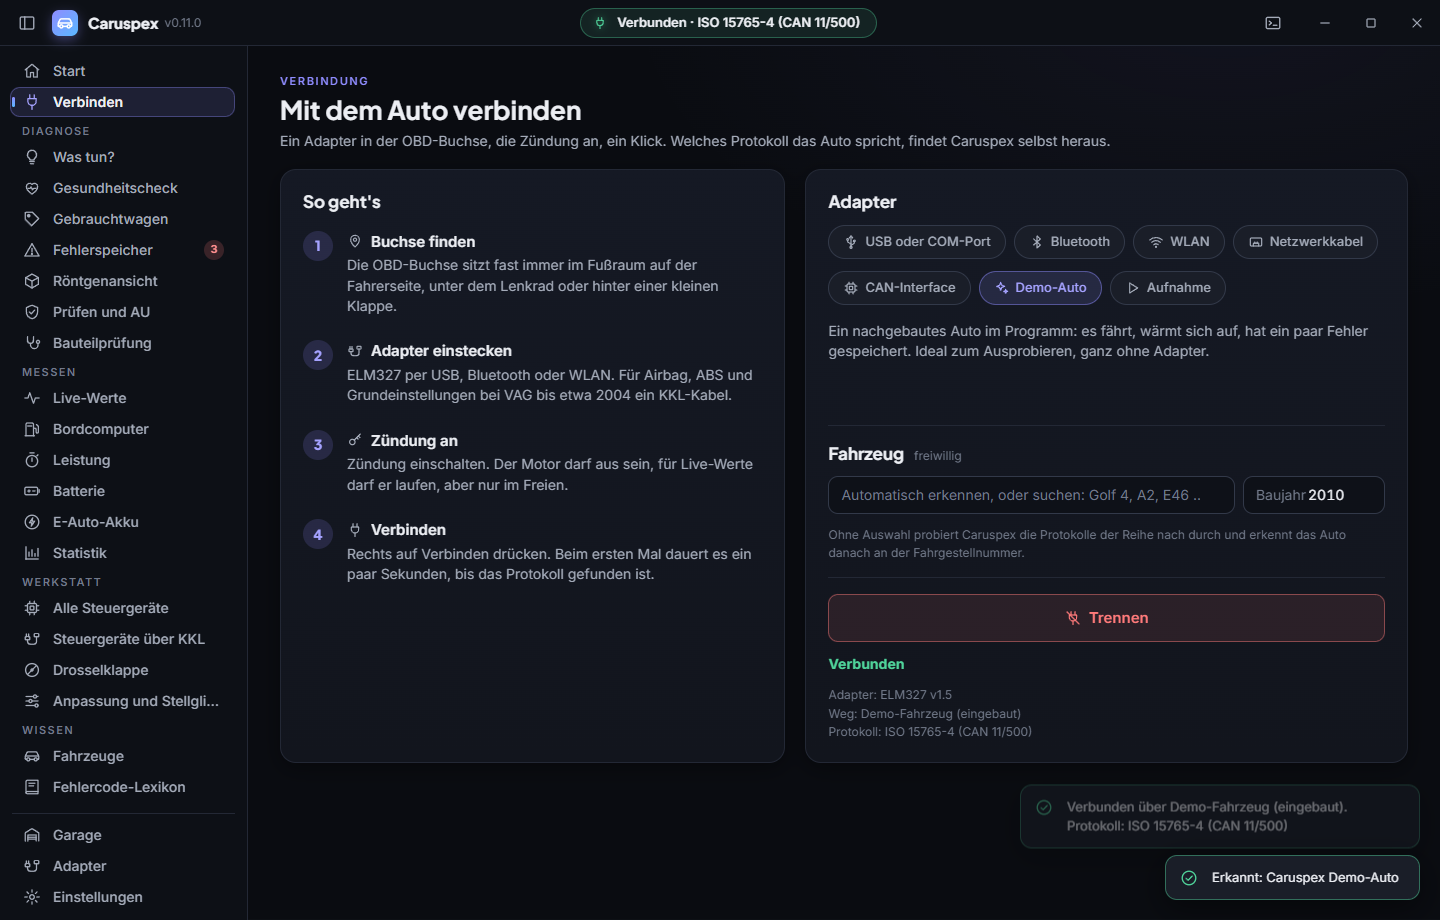
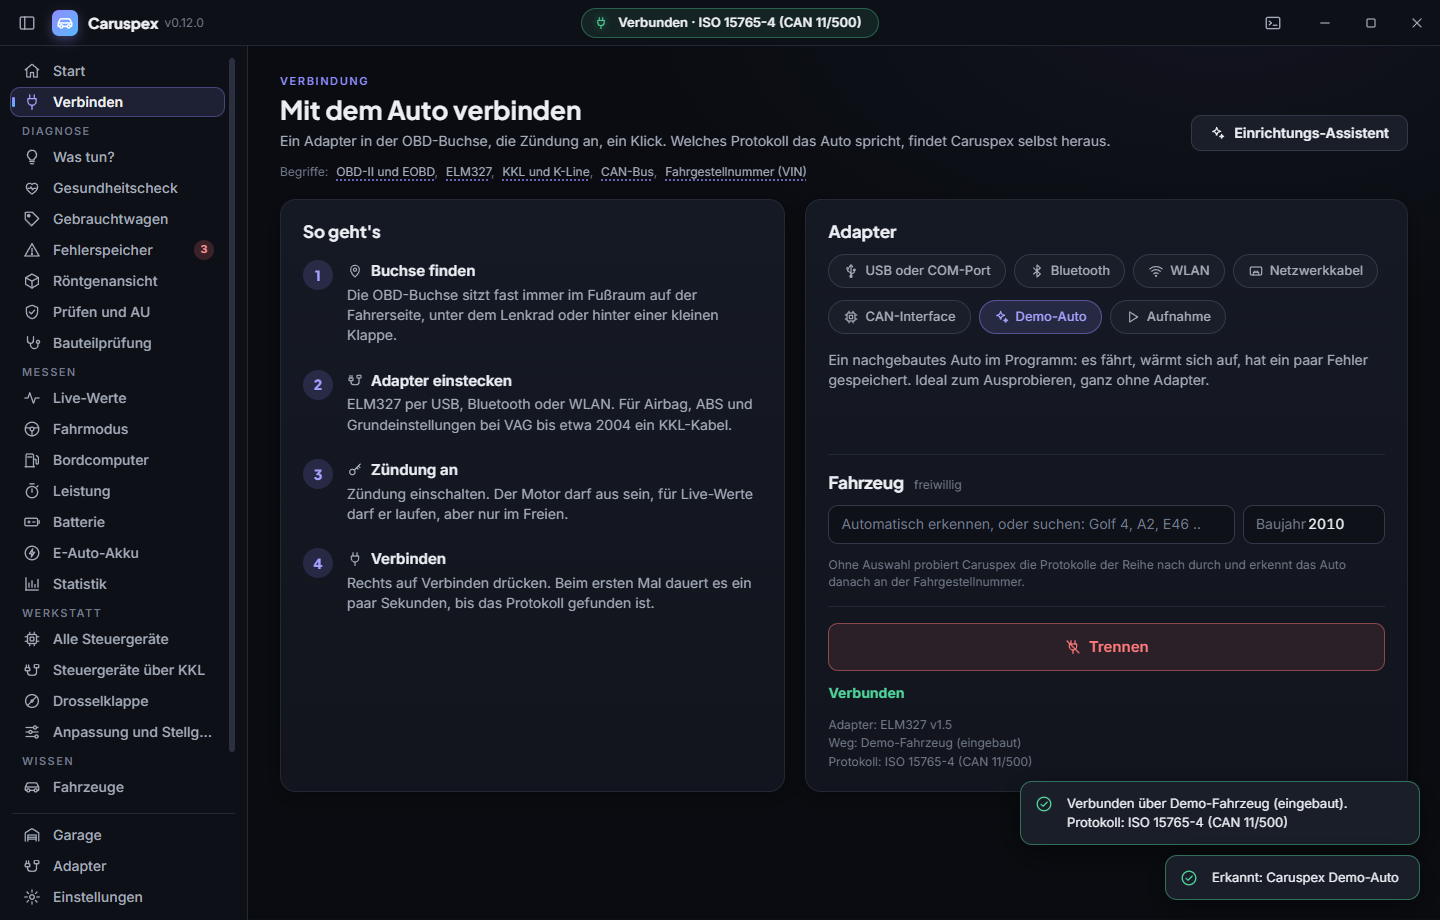
Version 0.12.0 mit Aenderungsliste auf Deutsch und Englisch

diff --git a/changelog/0.12.0.md b/changelog/0.12.0.md
@@ -1,0 +1,43 @@
+## Deutsch
+
+Leichter für Einsteiger, mehr für Profis: ein Assistent für den ersten Start, Erklärungen zu jedem Fachwort, ein Fahrmodus, VW und Audi über CAN-Interfaces und schnellere Werte mit OBDLink-Adaptern.
+
+**Leichter zu bedienen**
+- Beim ersten Start führt ein Assistent durch alles: welcher Adapter, wo die OBD-Buchse in deinem Auto sitzt (mit Skizze), Zündung an, verbinden. Er lässt sich überspringen und später wieder öffnen
+- Fachwörter wie Bereitschaftstest, Freeze Frame oder Langzeitkorrektur erklären sich direkt am Wort, dazu gibt es ein Glossar
+- Fahrmodus mit großer Schrift für Geschwindigkeit, Drehzahl, Kühlmittel und Spannung, mit dem Hinweis, ihn nicht während der Fahrt zu bedienen
+- Barrierefreiheit: Bildschirmleser, vollständige Bedienung mit der Tastatur, ein Design mit hohem Kontrast und einstellbare Schriftgröße
+- Die Zusammenfassung des Berichts lässt sich als QR-Code aufs Handy holen, ohne Konto und ohne Server
+
+**Mehr Wege ins Auto**
+- VW, Audi, Seat und Skoda von etwa 2004 bis 2012: alle Steuergeräte über TP 2.0 mit CAN-Interfaces (J2534, SLCAN, SocketCAN)
+- Ältere Autos über die K-Leitung jetzt auch mit J2534-Profi-Interfaces
+- OBDLink-Adapter mit STN-Chip fragen Live-Werte gebündelt ab, über Bluetooth spürbar schneller; dazu Ford MS-CAN und GM Single-Wire-CAN für Karosseriesteuergeräte
+
+**Röntgenansicht**
+- Scheinwerfer, Rückleuchten und Kühlergrill gehören jetzt zur Form
+- Herstellermaße für BMW 3er, 4er Coupé und Gran Coupé, Ford Focus und Skoda Octavia, wo Wikidata keine hat
+
+Hinweis: TP 2.0, die STN-Funktionen und der Assistent sind mit nachgebauten Geräten geprüft, noch nicht am echten Auto. Die Updates sind signiert, die Pakete selbst noch nicht.
+
+## English
+
+Easier for beginners, more for professionals: a first-start assistant, an explanation for every technical term, a driving mode, VW and Audi over CAN interfaces and faster values with OBDLink adapters.
+
+**Easier to use**
+- On the first start an assistant guides you through everything: which adapter, where the OBD socket sits in your car (with a sketch), ignition on, connect. It can be skipped and opened again later
+- Technical terms such as readiness monitor, freeze frame or long-term fuel trim explain themselves right at the word, and there is a glossary
+- Driving mode with large type for speed, rpm, coolant and voltage, with the note not to operate it while driving
+- Accessibility: screen readers, full keyboard operation, a high contrast theme and adjustable font size
+- The report summary can be taken to a phone as a QR code, without an account and without a server
+
+**More ways into the car**
+- VW, Audi, Seat and Skoda from about 2004 to 2012: every control unit over TP 2.0 with CAN interfaces (J2534, SLCAN, SocketCAN)
+- Older cars over the K-line now also with professional J2534 interfaces
+- OBDLink adapters with an STN chip ask for live values in batches, noticeably faster over Bluetooth; plus Ford MS-CAN and GM single-wire CAN for body control units
+
+**X-ray view**
+- Headlights, tail lights and the grille are now part of the shape
+- Maker dimensions for the BMW 3 Series, 4 Series Coupe and Gran Coupe, Ford Focus and Skoda Octavia where Wikidata has none
+
+Note: TP 2.0, the STN features and the assistant have been tested with simulated devices, not yet on a real car. The updates are signed, the packages themselves not yet.
